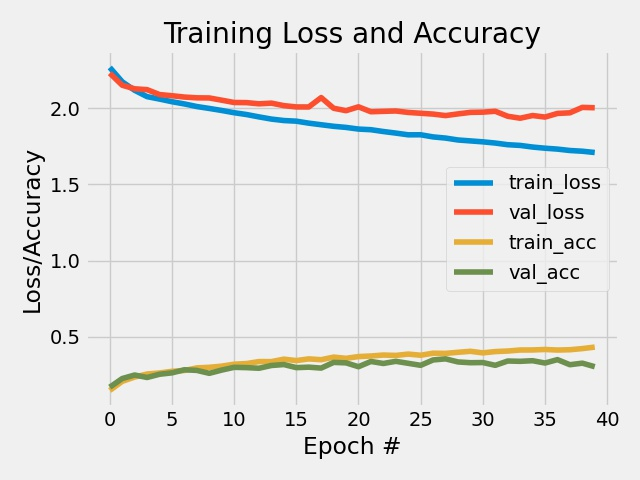
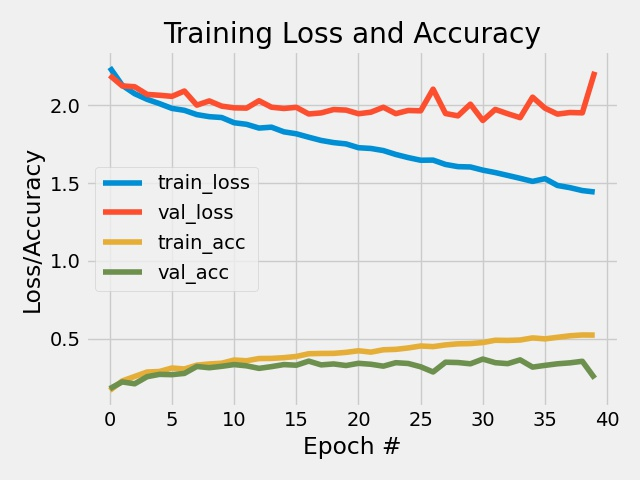
Modified README file and added comments for submission

diff --git a/assignment5_CNN/cnn_artists.py b/assignment5_CNN/cnn_artists.py
@@ -16,6 +16,7 @@ sys.path.append(os.path.join(".."))
 from sklearn.preprocessing import LabelBinarizer
 from sklearn.metrics import classification_report
 
+# Tensorflow tools
 from tensorflow.keras.models import Sequential
 from tensorflow.keras.layers import (Conv2D, 
                                      MaxPooling2D, 
@@ -34,11 +35,15 @@ from tensorflow.keras import backend as K
 image_list(): Creates two lists, one containing image objects extracted from folders given the arguments specified and one containing numeric values representing the painters of the images.
 """
 def image_list(painter, folder, X, Y, painter_counter):
+    
+    # Loop over every single image for the specified painter 
+    # and append the image object and painter-number to X and Y
     for image_path in glob.glob(os.path.join("data", folder, f"{painter}", "*.jpg")):
         X.append(cv2.imread(image_path))   
         Y.append(painter_counter)
         
     return(X, Y)
+
 
 """
 resize(): Takes an image list and predefined dimensions and resize all images in the list accordingly. Additionally, the function normalizes them (constraining numbers representing pixel itensities between 0-1)
@@ -49,18 +54,20 @@ def resize(X, height, width):
     dim = (height, width) 
     
     output = []
+    # Loop over every image object in X and resize them
     for image in X:    
         # Resize
         resized = cv2.resize(image, dim, interpolation = cv2.INTER_AREA)
         # Normalize the image
         resized = resized.astype("float") / 255.
-        
         output.append(resized)
     
     return(output)
 
+
 """
-plot_history(): Takes a model and a number of epochs, creates a plot of training loss and accuracy, and saves the plot in the folder 'out'.
+plot_history(): Takes a model and a number of epochs, creates a plot of training loss and accuracy, and saves the plot in the folder 'out'. 
+This function has been made by Ross (https://github.com/CDS-AU-DK/cds-visual/blob/main/notebooks/session9.ipynb) and only slightly motified to save the output.)
 """
 def plot_history(H, epochs):
     # visualize performance
@@ -79,7 +86,7 @@ def plot_history(H, epochs):
 
 
 """
-dataset_generator(): Takes the list of painters and constructs the 4 necessary train and test objects to feed the model
+dataset_generator(): Takes the list of painters and constructs the 4 necessary train and test objects to feed the model.
 """
 def dataset_generator(painters):
     
@@ -93,17 +100,14 @@ def dataset_generator(painters):
     # Create a counter
     painter_counter = 0
     
+    # Loop over every painter and import their images
     for painter in painters:
-    
         # Print message to terminal
         print(f"Importing images from {painter}")
-        
         # Training data
         trainX, trainY = image_list(painter, "training", trainX, trainY, painter_counter) 
-
         # Test data
         testX, testY = image_list(painter, "validation", testX, testY, painter_counter)
-        
         # Add 1 to the painter counter
         painter_counter = painter_counter + 1
     
@@ -120,9 +124,10 @@ def model_initializer(painters, height, width):
     model = Sequential()
     
     # define CONV => RELU layer
-    model.add(Conv2D(32, (3, 3), # depth of convolutional layer - 32
-                     padding="same", # means zeros around the outside of the image
-                     input_shape=(height, width, 3))) # input shape of the data heightxwidth and 3 color channels
+    model.add(Conv2D(32, (3, 3),                      # depth of convolutional layer - 32
+                     padding="same",                  # adds zeros around the outside of the image
+                     input_shape=(height, width, 3))) # input shape of the data height, width and 3 color channels
+    
     # activation layer
     model.add(Activation("relu"))
     
@@ -130,7 +135,6 @@ def model_initializer(painters, height, width):
     model.add(Flatten())
     model.add(Dense(len(painters)))
     model.add(Activation("softmax"))
-    
     
     # Compile model
     opt = SGD(lr =.01) # usually 0.001 --> 0.01
@@ -144,15 +148,16 @@ def model_initializer(painters, height, width):
 # MAIN FUNCTION
 def main(args):
     
-    # Import parameters specified in the commanline
+    # Import parameters specified in the commandline
     height = args["resize_height"]
     width = args["resize_width"]
+    epochs = args["epochs"]
 
     # Create list of painters from one of the folders
     filepath = os.path.join("data", "validation")
     painters = os.listdir(filepath)
     
-    # Create the 4 necessary list to feed the model
+    # Create the 4 necessary lists to feed the model
     trainX, trainY, testX, testY = dataset_generator(painters)
     
     # Resize the images according to the dimensions specified in the terminal  
@@ -161,8 +166,8 @@ def main(args):
     testX = resize(testX, height, width)
 
     # change image data into array and appropriately reshape
-    trainX = np.array(trainX).reshape(len(trainX),height,width,3) # 3 represents number of color channels
-    testX = np.array(testX).reshape(len(testX),height,width,3)
+    trainX = np.array(trainX).reshape(len(trainX), height, width, 3) # 3 represents number of color channels
+    testX = np.array(testX).reshape(len(testX), height, width, 3)
     
     # Initialise and compile model with predefined function
     model = model_initializer(painters, height, width)
@@ -172,19 +177,18 @@ def main(args):
     H = model.fit(trainX, trainY, 
                   validation_data=(testX, testY), 
                   batch_size=100,
-                  epochs=40,
+                  epochs=epochs,
                   verbose=1)
     
     
     # THE MODEL OUTPUT
     
-    # save 'training loss and accuracy plot' and 'model plot' in folder out
-    plot_history(H, 40)
+    # save 'training loss and accuracy plot' and 'model plot' in folder 'out'
+    plot_history(H, epochs)
     plot_model(model, to_file='out/Model_plot.jpg', show_shapes=True, show_layer_names=True)
     
-    # Save classification report in folder out
+    # Save classification report in the folder 'out'
     predictions = model.predict(testX, batch_size=100)
-    
     class_report = pd.DataFrame(classification_report(testY.argmax(axis=1),
                             predictions.argmax(axis=1),
                             target_names=painters,
@@ -194,7 +198,7 @@ def main(args):
     # print to terminal
     print("Classification Report:")
     print(class_report) 
-    print("A plot of the training loss and accuracy, a model plot, and the classification report have successfully been saved in the folder 'out'")
+    print("A plot of the training loss and accuracy, a model plot, and the classification report have successfully been saved in the folder 'out'.")
     
 
 # RUN THE SCRIPT
@@ -202,10 +206,13 @@ if __name__=="__main__":
     
     # Argument parser
     ap = argparse.ArgumentParser()
-    ap.add_argument("-a", "--resize_height", default = 30, type = int,
-                    help = "The default is 30")
-    ap.add_argument("-b", "--resize_width", default = 30, type = int,
-                    help = "The default is 30")
+    ap.add_argument("-a", "--resize_height", default = 50, type = int,
+                    help = "The default is 50")
+    ap.add_argument("-b", "--resize_width", default = 50, type = int,
+                    help = "The default is 50")
+    ap.add_argument("-e", "--epochs", default = 40, type = int,
+                    help = "The default is 40")
+    
     
     # Parse arguments. args is now an object containing all arguments added through the terminal. 
     argument_parser = vars(ap.parse_args())

diff --git a/assignment5_CNN/README.md b/assignment5_CNN/README.md
@@ -24,22 +24,38 @@ This repository has the following directory structure:
 |--------|:-----------|
 ```out``` | Contains the outputs from running the script.
 ```cnn_artists.py```| The script to be executed from the terminal.
-```./create_lang_venv.sh``` | A bash script which automatically generates a new virtual environment, and install all the packages contained within 'requirements.txt'
-```requirements.txt``` | A list of packages along with the versions that are certain to work.
-```README.md``` | This very readme file
+```./create_lang_venv.sh``` | A bash script which automatically generates a new virtual environment 'CNN_env', and install all the packages contained within 'requirements.txt'
+```requirements.txt``` | A list of packages along with the versions that are required.
+```README.md``` | This readme file.
 
 
 ## Run the script
-Setup the virtual environment and activate it
+
+### Virtual environment
+In order to run the script, one is required to set up the virtual environment with all necessary packages installed. Please clone the repo, navigate to the folder for this assignment, run the bash script to set up the environment, and lastly activate it. The following code should be executed from the terminal:
+
 ```bash
 git clone https://github.com/askesvane/VisualAnalytics.git
 cd assignment5_CNN
-bash ./create_visual_venv.sh
+bash ./create_vision_venv.sh
 source ./CNN_env/bin/activate
 ```
 
-Run the script (You can specify the height and width of the resized images. In both cases the default is 30. In order to run the script, you need to add a ```data``` folder containing all the images. This folder is too large to be pushed to github.
+### Get the data
+The data occupies approximately 2GB and thus exceeds Github's file size limit. To run the script, the data has to be downloaded from kaggle.com: https://www.kaggle.com/delayedkarma/impressionist-classifier-data
+- Download the zip-file and unzip it.
+- Create a new folder in ´´´.../VisualAnalytics/assignment5_CNN/´´´ called 'data'.
+- Move the folders 'training' and 'validation' both containing several additional folders (named after each painter) to the new data folder. 
+
+### Execute the script 
+Now, the script can be executed. You can specify the height and width of the resized images. In both cases the default is 50. Additionally, you can specify the number of epochs. The default is 40.
+
 ```bash
-python cnn_artists.py --resize_height 30 --resize_width 30 
+python cnn_artists.py --resize_height 50 --resize_width 50 --epochs 40 
 ```
-The classification report and plots can be found in the folder called 'out'
+While running, status updates will be printed to the terminal. Afterwards, the classification report and plots can be found in the folder called 'out'. It takes approximately 4 minutes.
+
+## Results
+
+The classification accuracy of the model (f1-score) is 37.07 running with the default parameters. A detailed csv file with the results can be found in 'out'. Increasing the size of the images did not seem to improve the results.
+
